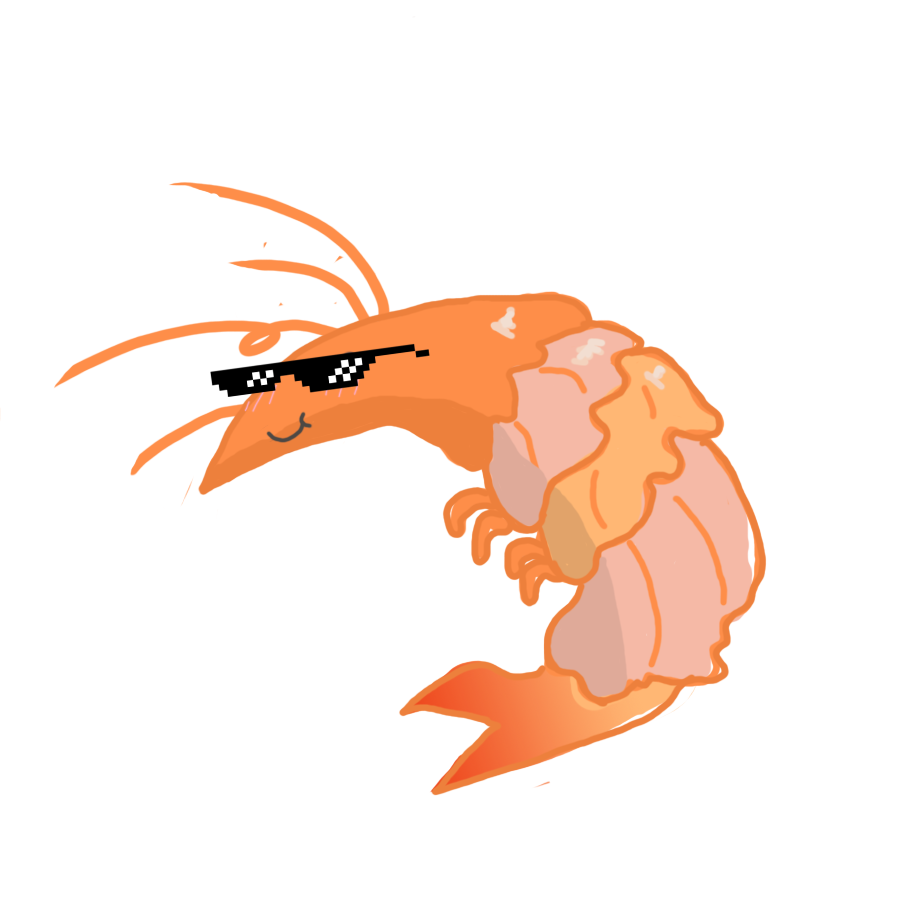
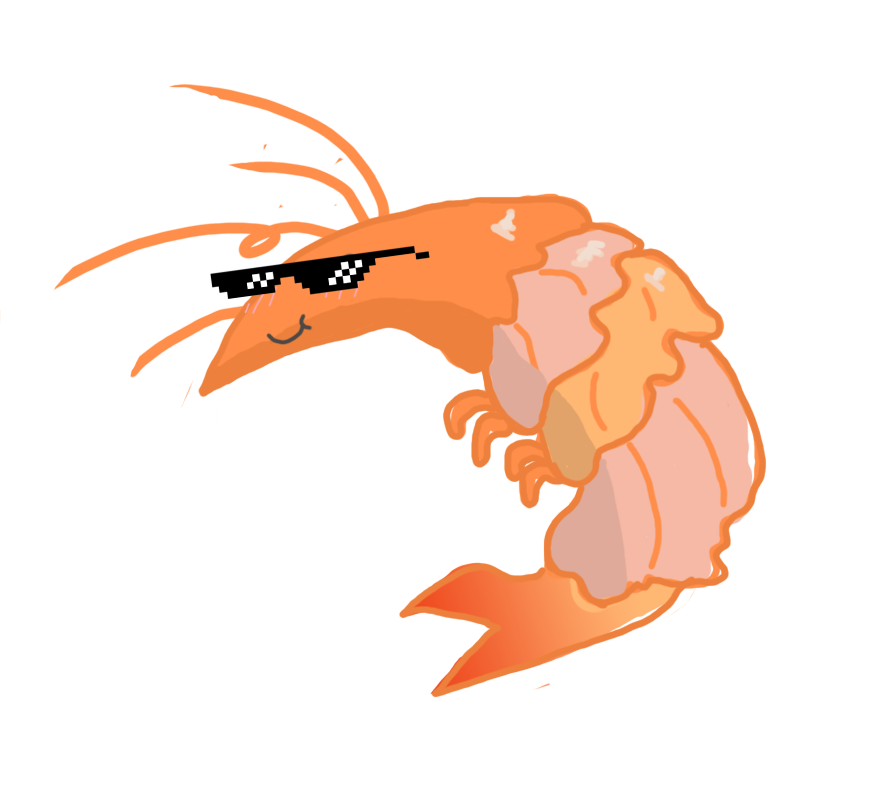
Масштабирование креветки

Changed region(s): [[0.0604, 0.0938, 0.8758, 0.9062], [0.0604, 0.4062, 0.0906, 0.4375]]

diff --git a/src/App.js b/src/App.js
@@ -12,17 +12,17 @@ function App() {
       }, []);
 
           const listItems = exchangeRates.map((rate) =>
-            <tr><td class = "ExchangeItem">{rate.name} ({rate.code})</td>
-                <td>{rate.value} грамм</td></tr>
+            <tr key = {rate.code}><td className = "ExchangeItem">{rate.name} ({rate.code})</td>
+                <td>{rate.value} креветочных грамм</td></tr>
           );
 
       return (
         <div className="App">
-          <header className="App-header">
-          <img src={shrimp} className="Shrimp" alt="shrimp" />
-                <table><tr><th class = "ExchangeHead HeadDesign">Валюта</th>
-                          <th class = "HeadDesign">Креветочных грамм за единицу</th></tr>{listItems}</table>
-          </header>
+          <div className="App-header">
+          <img src={shrimp} className="Shrimp ShrimpLocation" alt="shrimp" />
+                <table><thead><tr><th className = "ExchangeHead HeadDesign">Валюта</th>
+                          <th className = "HeadDesign">Креветочных грамм за единицу</th></tr></thead><tbody>{listItems}</tbody></table>
+          </div>
         </div>
       );
 }

diff --git a/src/App.css b/src/App.css
@@ -2,17 +2,6 @@
   text-align: center;
 }
 
-.App-logo {
-  height: 40vmin;
-  pointer-events: none;
-}
-
-@media (prefers-reduced-motion: no-preference) {
-  .App-logo {
-    animation: App-logo-spin infinite 20s linear;
-  }
-}
-
 .App-header {
   background-color: #282c34;
   min-height: 100vh;
@@ -22,19 +11,6 @@
   justify-content: center;
   font-size: calc(10px + 2vmin);
   color: white;
-}
-
-.App-link {
-  color: #61dafb;
-}
-
-@keyframes App-logo-spin {
-  from {
-    transform: rotate(0deg);
-  }
-  to {
-    transform: rotate(360deg);
-  }
 }
 
 .ExchangeItem{
@@ -51,4 +27,8 @@
 font-size: calc(20px + 2vmin);
 padding-bottom: 1vw;
  color: #f75e25
+}
+
+.ShrimpLocation{
+height: 50vh;
 }
